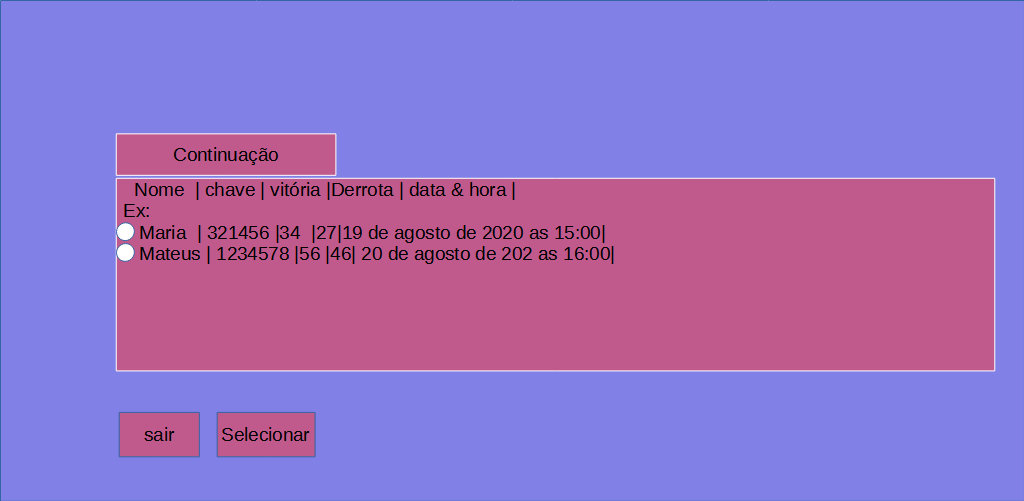
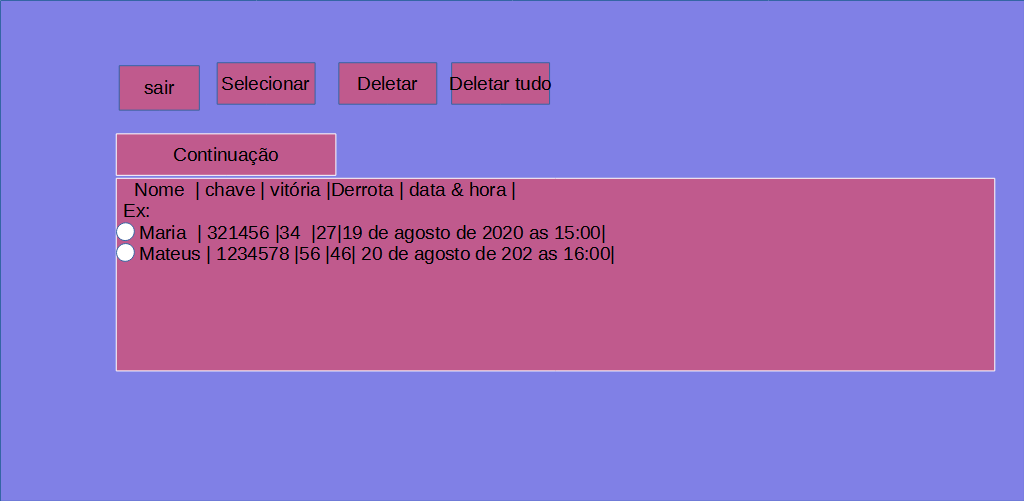
feito os ajuste necessarios.

Changed region(s): [[0.0938, 0.1198, 0.5625, 0.2395], [0.0938, 0.8084, 0.3125, 0.9281]]

diff --git a/src/angular.js b/src/angular.js
@@ -267,7 +267,7 @@ app.controller('Contra-IA',['$scope','appBrowser','$location',
                                                 if(radio.checked){
                                                     if(banco != "erro" )
                                                     {
-                                                        var key = Number.parseInt(radio.value) + 1;
+                                                        var key = Number.parseInt(radio.value);
                                                         var ia = banco.objectStoreNames[0];
                                                         var usuario = banco.objectStoreNames[1];
                                                         var transactionusuario = banco.transaction(usuario,'readwrite');
@@ -299,6 +299,46 @@ app.controller('Contra-IA',['$scope','appBrowser','$location',
                                             catch(ev){
 
                                             }
+                                        }
+                                        var deletar = document.querySelector("[name=deletar]");
+                                        deletar.onclick = function(ev){
+                                            var radio = document.querySelector("input[name=item]:checked");
+                                            try{
+                                                if(radio.checked)
+                                                {
+                                                    var key = Number.parseInt(radio.value);
+                                                    var usuario = banco.objectStoreNames[1];
+                                                    var transactionusuario = banco.transaction(usuario,'readwrite');
+                                                    var deletesuario = transactionusuario.objectStore(usuario).delete(key);
+                                                    deletesuario.onsuccess = function(event){
+                                                       var ia = banco.objectStoreNames[0];
+                                                       var transactionia = banco.transaction(ia,'readwrite');
+                                                       var deletesia = transactionusuario.objectStore(ia).delete(key);
+                                                       deletesia.onsuccess = function(event){
+                                                        alertify.success('deletar com sucesso... ');
+                                                       }
+                                                      
+                                                    }
+                                                }
+                                            }catch(ev){
+
+                                            }
+                                        }
+                                        var deletar_tudo = document.querySelector("[name=deletar_tudo]");
+                                        deletar_tudo.onclick = function(ev){
+                                            try{
+                                                if(banco.name != undefined){
+                                                    var deletar_banco = window.indexedDB.deleteDatabase(banco.name);
+                                                    alertify.success('deletado tudo com sucesso... ');
+                                                   
+                                                }
+                                                
+                                            }
+                                            catch(ev)
+                                            {
+                                                console.log(ev);
+                                            }
+                                           
                                         }
                                     }
                                     else if(window.location.pathname == "/quem_somos.html"
@@ -456,26 +496,28 @@ app.controller('Contra-IA',['$scope','appBrowser','$location',
 
                                             var usuario = banco.objectStoreNames[1];
                                             var transaction = banco.transaction(usuario,'readwrite');
-                                            var getall = transaction.objectStore(usuario).getAll();
-                                            getall.onsuccess = function(ev){
-                                                var dados = ev.target.result;
-                                                var  i = 0;
+                                            var curso = transaction.objectStore(usuario).openCursor()
+                                            
+                                            curso.onsuccess = function(ev){
+                                               
+                                               var dados = ev.target.result;
                                                 var nome,chave,vitoria,derrota,data,tr;
-                                                while(i < dados.length){
+                                              if(dados)
+                                              {
                                                     var radio = document.createElement("input");
                                                     radio.type = "radio";
                                                     radio.name = "item";
-                                                    radio.value = i;
+                                                    radio.value = dados.key;
                                                     nome = document.createElement("td");
-                                                    nome.textContent = "|"+dados[i].nome;
+                                                    nome.textContent = "|"+dados.value.nome;
                                                     chave = document.createElement("td");
-                                                    chave.textContent = "|"+dados[i].chave+"| ";
+                                                    chave.textContent = "|"+dados.value.chave+"| ";
                                                     vitoria = document.createElement("td");
-                                                    vitoria.textContent = dados[i].positivo+"| "
+                                                    vitoria.textContent = dados.value.positivo+"| "
                                                     derrota = document.createElement("td");
-                                                    derrota.textContent = dados[i].negativo+"| ";
+                                                    derrota.textContent = dados.negativo+"| ";
                                                     data = document.createElement("td");
-                                                    data.textContent = dados[i].data + "|";
+                                                    data.textContent = dados.value.data + "|";
                                                     tr = document.querySelector("tr");
                                                     tr.className = "coluna_nova";
                                                     tr.innerHTML = tr.innerHTML + "&nbsp;&nbsp;" + "<input type='" +radio.type +"' name='"
@@ -485,9 +527,9 @@ app.controller('Contra-IA',['$scope','appBrowser','$location',
                                                         vitoria.innerHTML + derrota.innerHTML +
                                                         data.innerHTML + "<br>";
 
-                                                    i =  i + 1;
-                                                }
-
+                                                    dados.continue();                                                   
+                                            
+                                              }
                                             }
                                         })
                                     }catch(ev){

diff --git a/continuar.html b/continuar.html
@@ -15,7 +15,16 @@
         <script src="./src/calcular.js"></script>
         <script src="./src/modulos.js"></script>
         <script src="./src/rsa.js"></script>
-
+<!-- JavaScript -->
+<script src="https://cdn.jsdelivr.net/npm/alertifyjs@1.13.1/build/alertify.min.js"></script>
+<!-- CSS -->
+<link rel="stylesheet" href="https://cdn.jsdelivr.net/npm/alertifyjs@1.13.1/build/css/alertify.min.css"/>
+<!-- Default theme -->
+<link rel="stylesheet" href="https://cdn.jsdelivr.net/npm/alertifyjs@1.13.1/build/css/themes/default.min.css"/>
+<!-- Semantic UI theme -->
+<link rel="stylesheet" href="https://cdn.jsdelivr.net/npm/alertifyjs@1.13.1/build/css/themes/semantic.min.css"/>
+<!-- Bootstrap theme -->
+<link rel="stylesheet" href="https://cdn.jsdelivr.net/npm/alertifyjs@1.13.1/build/css/themes/bootstrap.min.css"/>
         <script  src="./src/angular.js"></script>
 
         <!-- Optional JavaScript -->
@@ -50,6 +59,8 @@
                     </table>
                     <input type="submit" name="sair" class="sair" value = "Sair" >
                     <input type="submit" name="selecionar" class="selecionar" value = "Selecionar" >
+                    <input type="submit" name="deletar" class="deletar" value = "Deletar" >
+                    <input type="submit" name="deletar_tudo" class="deletar_tudo" value = "Deletar tudo" >
                 </div>
             </div>
         </div>

diff --git a/css/medias.css b/css/medias.css
@@ -44,7 +44,7 @@
         background-color: #ff3333;
         opacity: 0.5;
         top: 5%;
-        left: 30.5%;
+        left: 20%;
         padding-left: 3%;
         padding-right: 3%;
     }
@@ -52,7 +52,21 @@
         position: fixed;
         top: 28%;
     }
-
+    .deletar 
+    {
+        position: fixed;
+        background-color: #ff3333;
+        opacity: 0.5;
+        left: 50%;
+        top: 5%;
+    }
+    .deletar_tudo{
+        position: fixed;
+        background-color: #ff3333;
+        opacity: 0.5;
+        left: 70%;
+        top: 5%;
+    }
     .LI-profile-badge {
         visibility: hidden;
      }
@@ -198,7 +212,7 @@
 }
 
 /* verticial de 500px até 700px */
-@media screen and (min-width: 500px)  and (max-width:700px){
+@media screen and (min-width: 500px)  and (max-width:701px){
     body{
         opacity: 1;
         background-color: rgb(127,127,229);
@@ -252,7 +266,21 @@
         position: fixed;
         top: 28%;
     }
-    
+    .deletar 
+    {
+        position: fixed;
+        background-color: #ff3333;
+        opacity: 0.5;
+        left: 50%;
+        top: 5%;
+    }
+    .deletar_tudo{
+        position: fixed;
+        background-color: #ff3333;
+        opacity: 0.5;
+        left: 65%;
+        top: 5%;
+    }
     .LI-profile-badge {
         position: fixed;
         left: 58%;

diff --git a/css/jogo_estilo.css b/css/jogo_estilo.css
@@ -58,6 +58,21 @@
         left: 22.5%;
         width: auto;
     }
+    .deletar 
+    {
+        position: fixed;
+        background-color: #ff3333;
+        opacity: 0.5;
+        left: 28%;
+        top: 5%;
+    }
+    .deletar_tudo{
+        position: fixed;
+        background-color: #ff3333;
+        opacity: 0.5;
+        left: 35%;
+        top: 5%;
+    }
     .LI-profile-badge {
         position: fixed;
         left: 78%;
@@ -199,7 +214,7 @@
 }
 
 /* verticial de  700px até 1024px */
-@media screen and (min-width: 700px) and (max-width:1024px){
+@media screen and (min-width: 701px) and (max-width:1024px){
 
     body{
         opacity: 1;
@@ -247,15 +262,31 @@
         background-color: #ff3333;
         opacity: 0.5;
         top: 5.5%;
-        left: 12.5%;
+        left: 15.5%;
         padding-left: 3%;
         padding-right: 3%;
     }
+   
     .coluna_nova{
         position: fixed;
         top: 28%;
         left: 12%;
         width: auto;
+    }
+    .deletar 
+    {
+        position: fixed;
+        background-color: #ff3333;
+        opacity: 0.5;
+        left: 35%;
+        top: 5.5%;
+    }
+    .deletar_tudo{
+        position: fixed;
+        background-color: #ff3333;
+        opacity: 0.5;
+        left: 48%;
+        top: 5.5%;
     }
     .LI-profile-badge {
         position: fixed;
